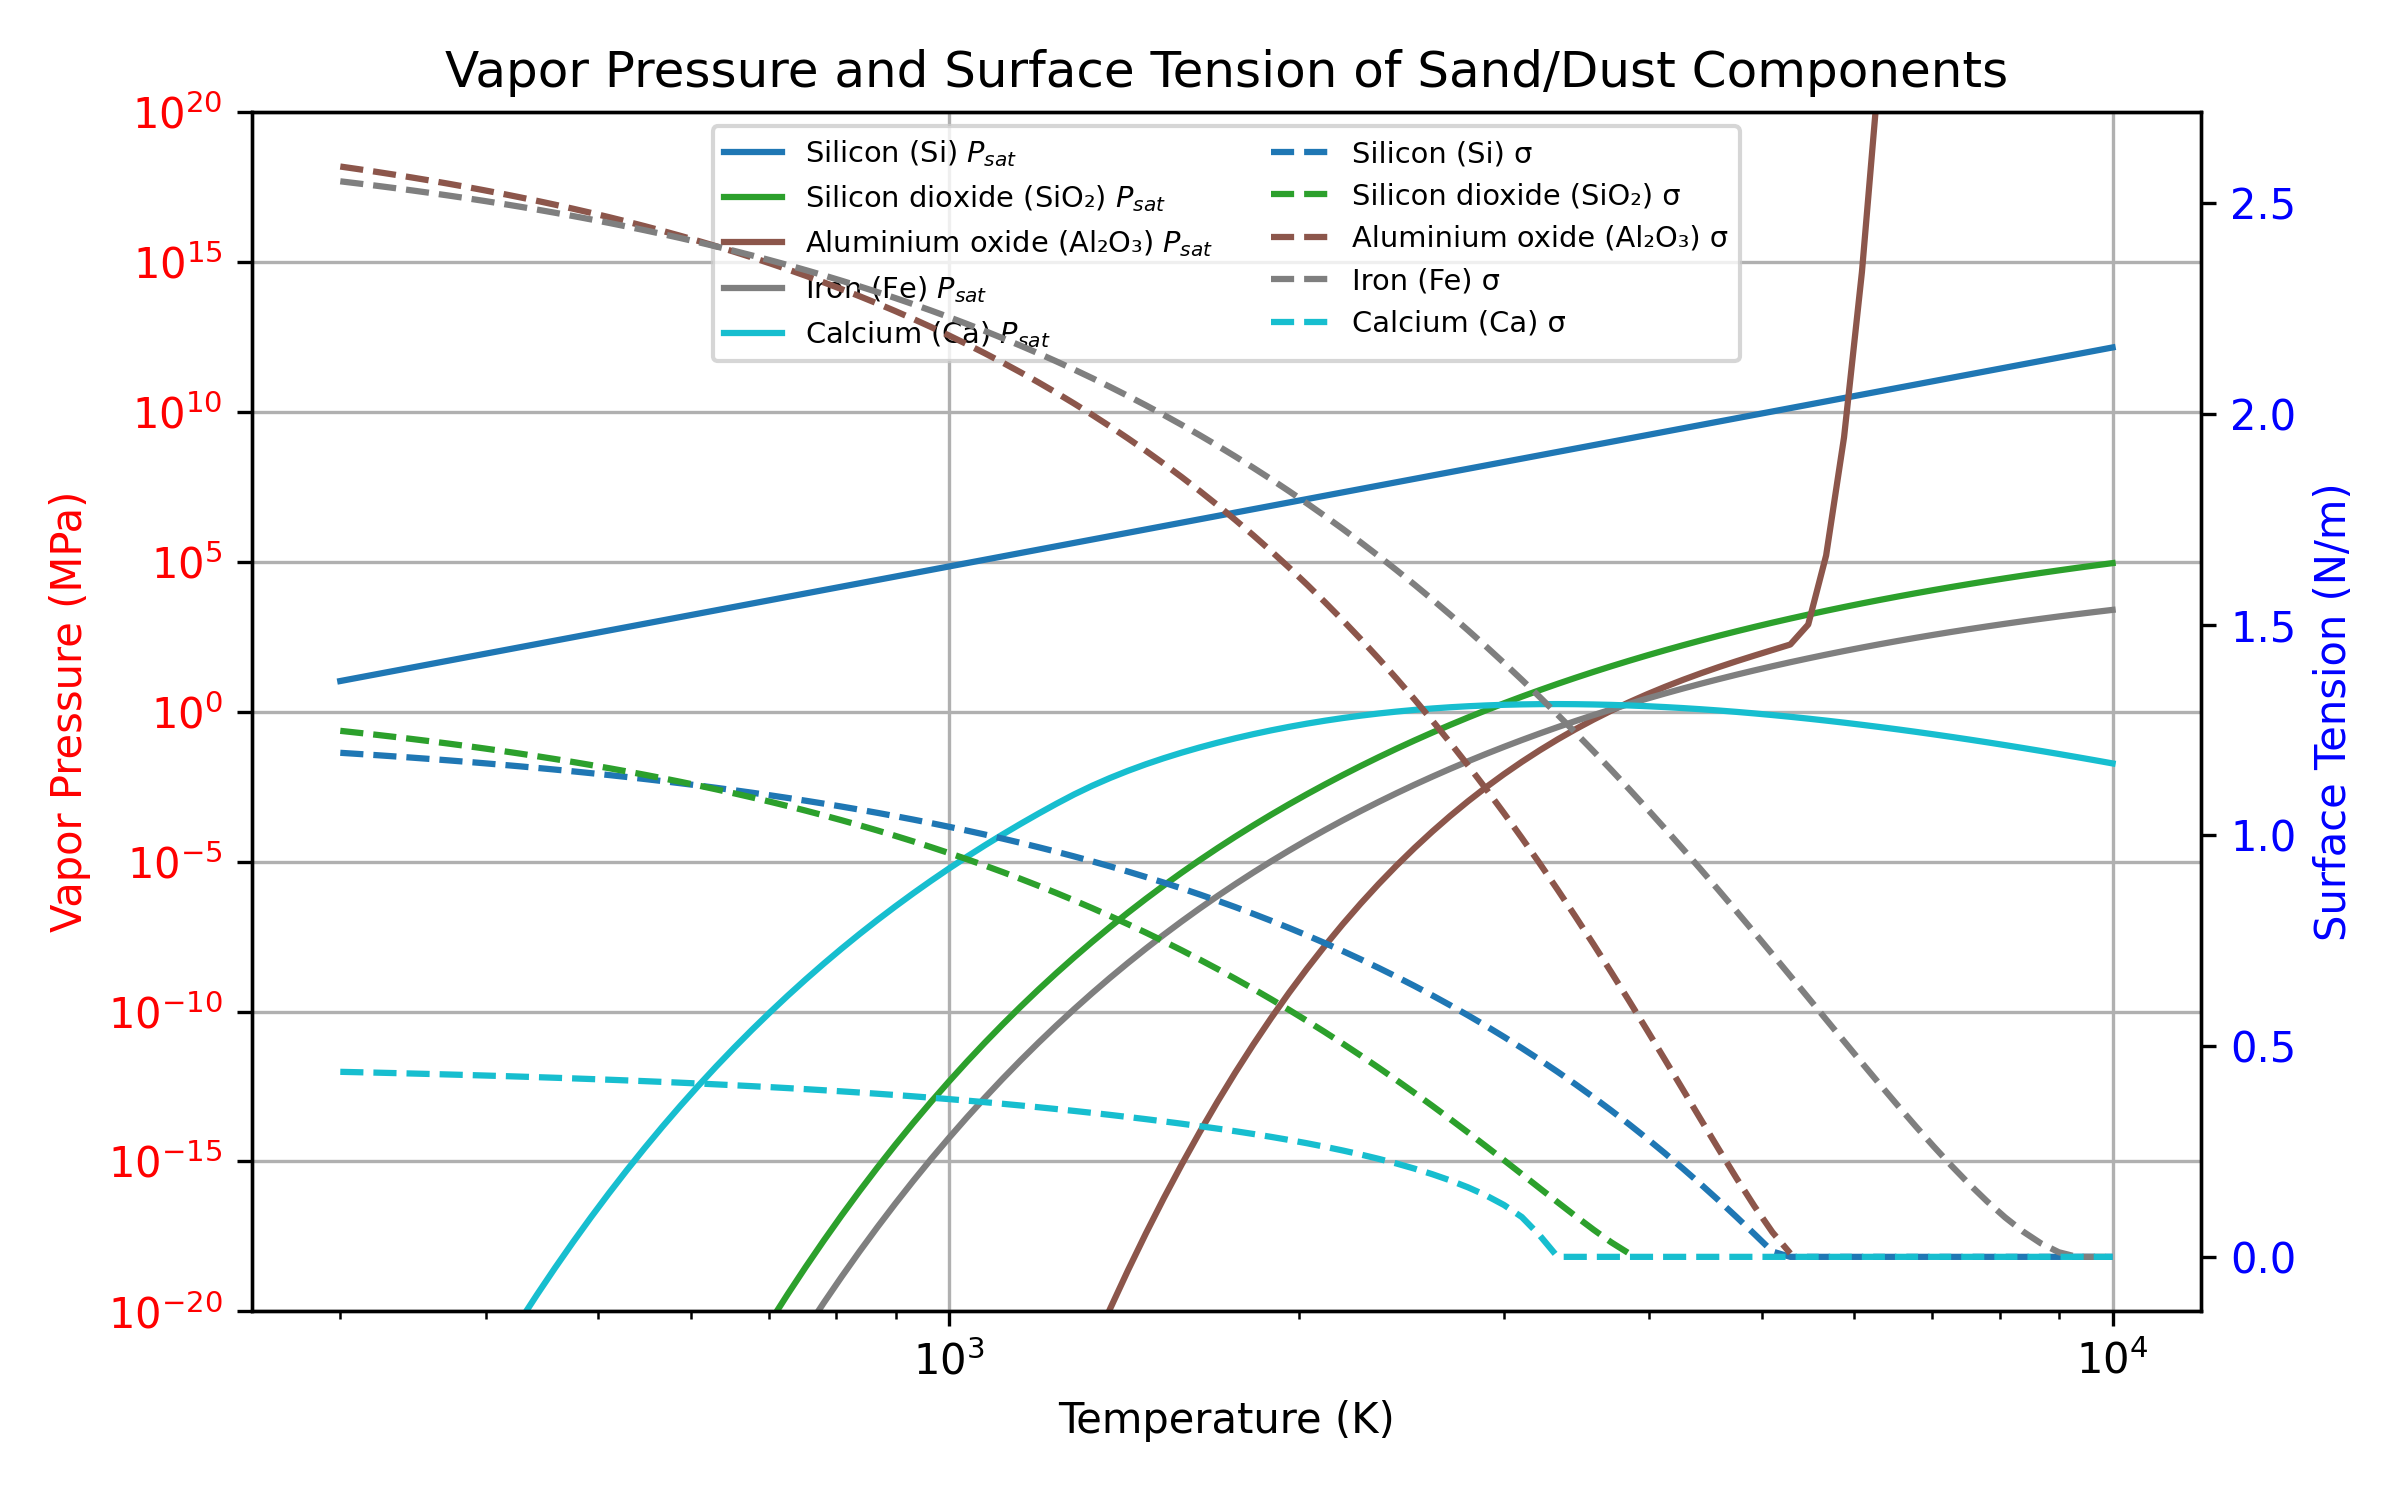
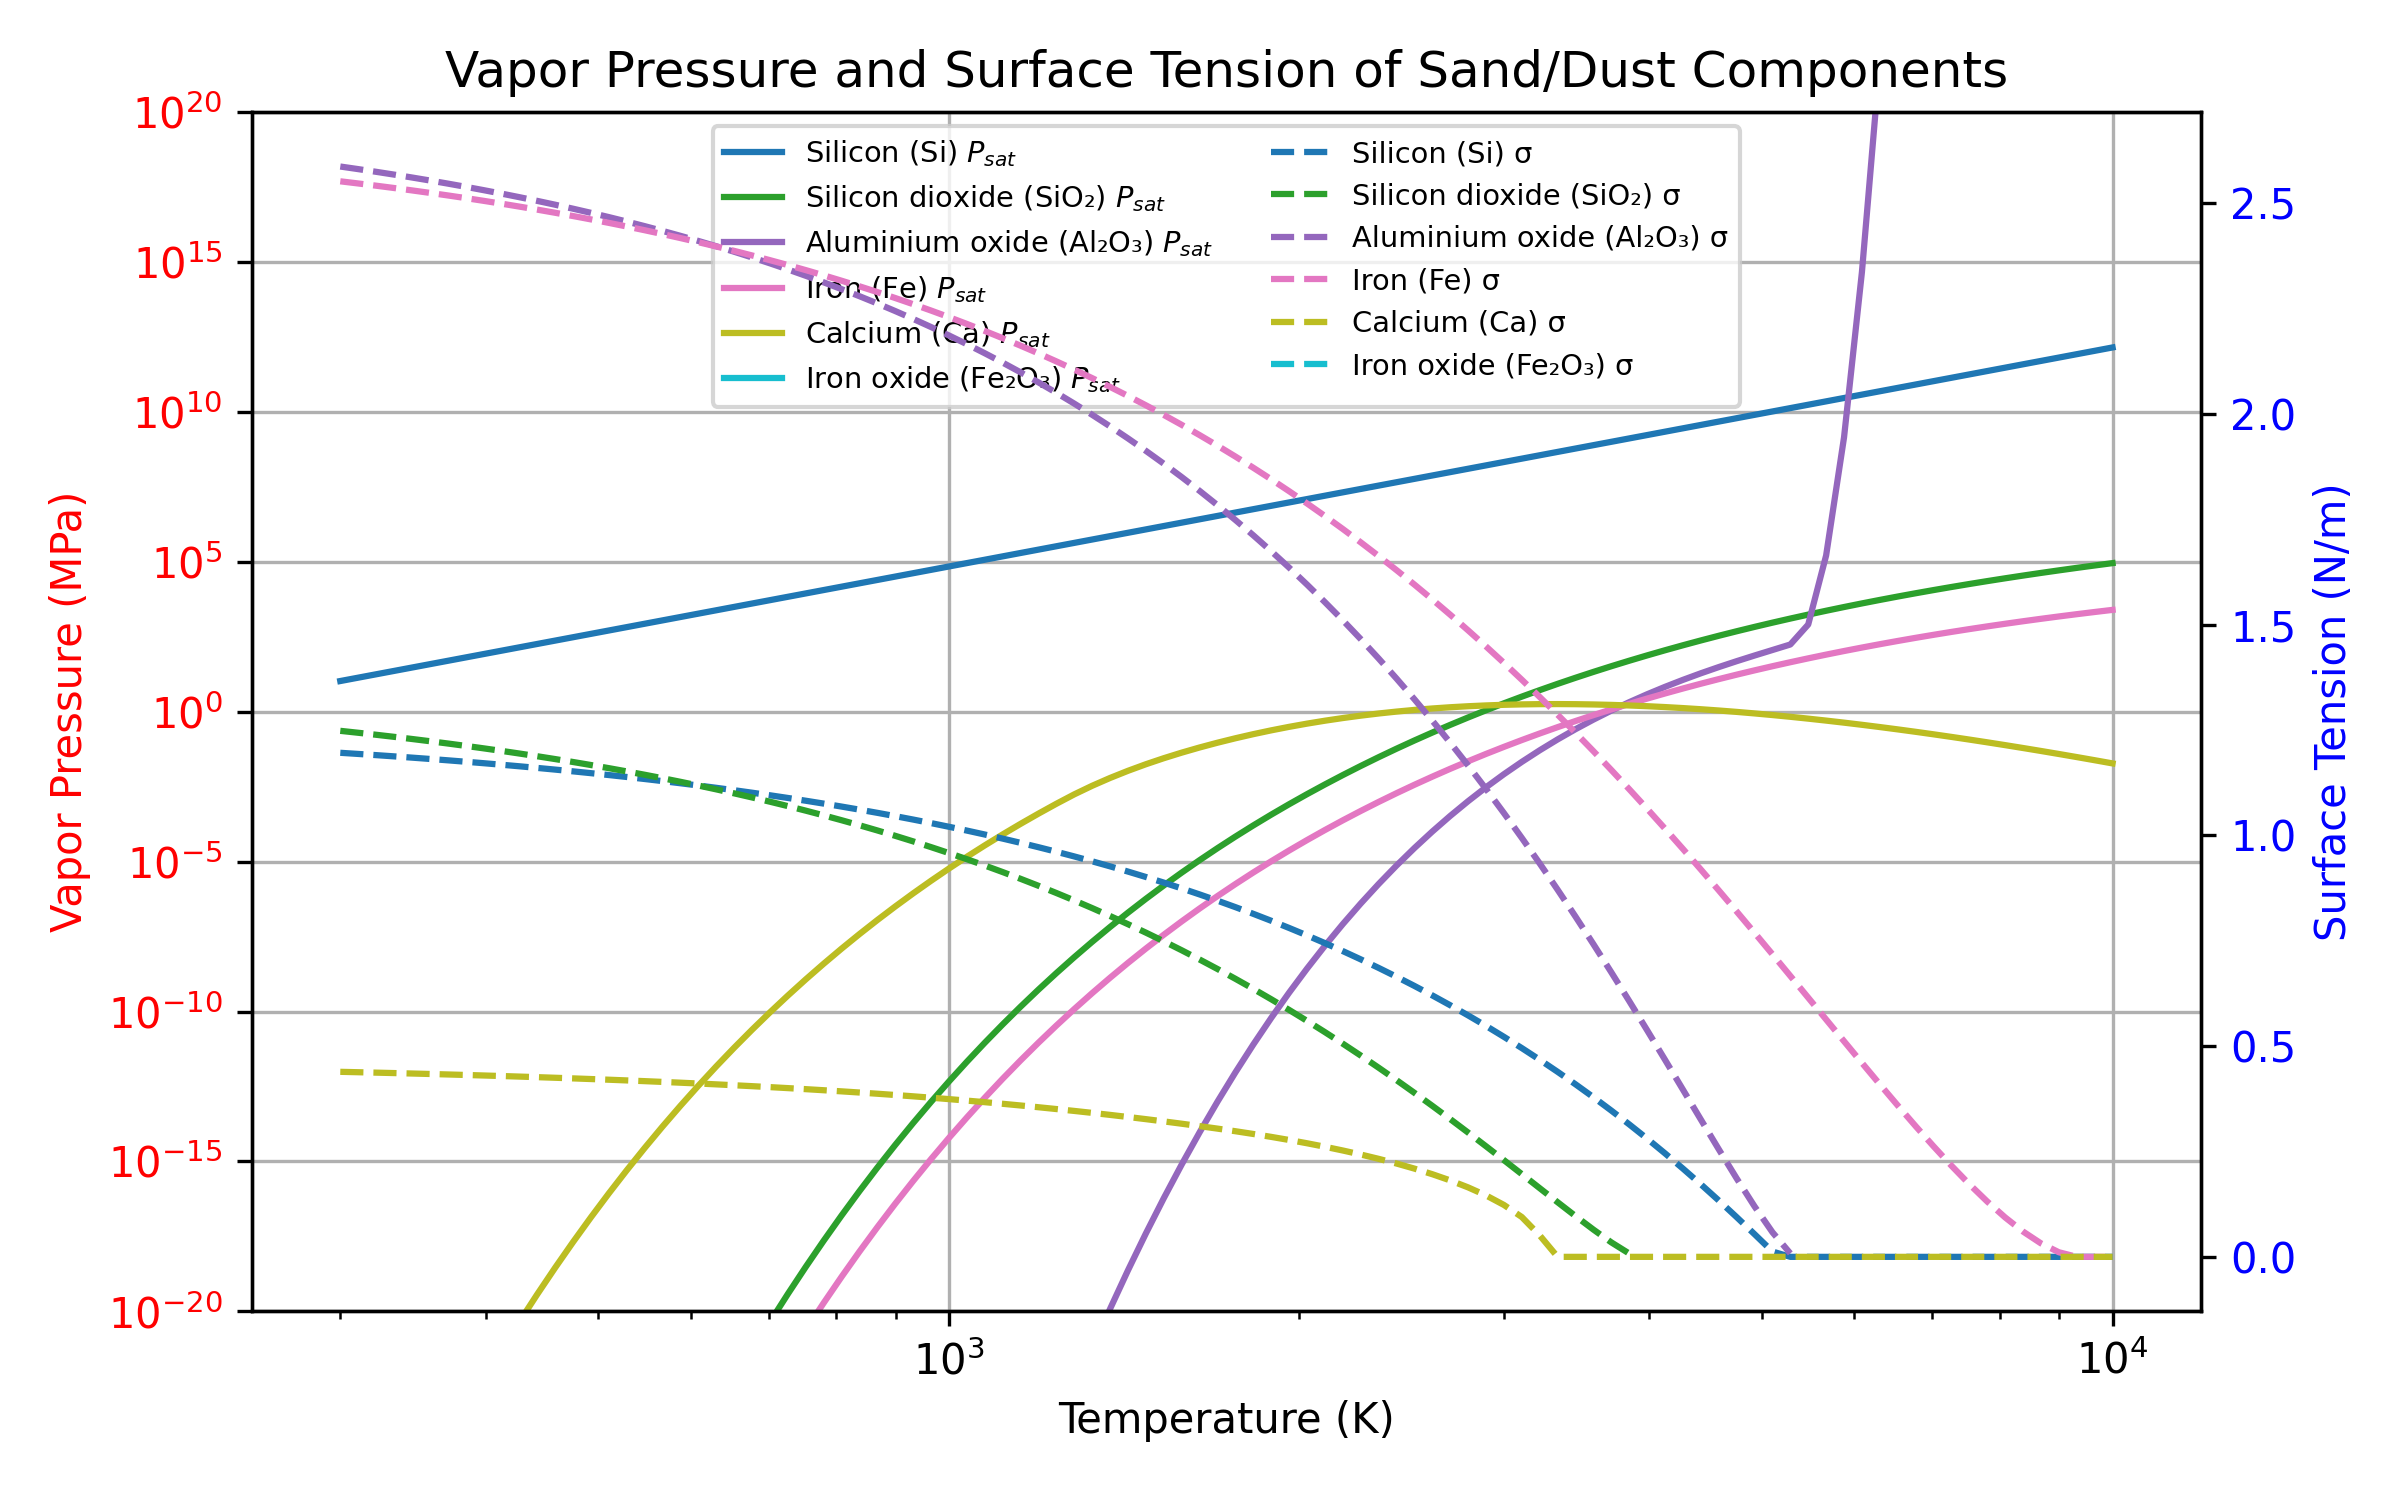
added chemical search valid eval

diff --git a/particula/util/materials/chemical_values.py b/particula/util/materials/chemical_values.py
@@ -5,6 +5,7 @@ import matplotlib.pyplot as plt
 import numpy as np
 from particula.util.materials.surface_tension import get_surface_tension
 from particula.util.materials.vapor_pressure import get_vapor_pressure
+from particula.util.materials.chemical_search import get_chemical_search
 
 
 # %% silica mineral
@@ -22,6 +23,7 @@ components = {
     "Aluminium oxide (Al₂O₃)": "Al2O3",
     "Iron (Fe)": "Fe",
     "Calcium (Ca)": "Ca",
+    "Iron oxide (Fe₂O₃)": "Fe2O3",
 }
 colors = plt.cm.tab10(np.linspace(0, 1, len(components)))
 

diff --git a/tests/materials/test_chemical_search.py b/tests/materials/test_chemical_search.py
@@ -12,7 +12,7 @@ def test_get_chemical_search_exact():
 
 
 def test_get_chemical_search_fuzzy():
-    if not THERMO_AVAILABLE:
-        pytest.skip("thermo is not installed")
+    # if not THERMO_AVAILABLE:
+    #     pytest.skip("thermo is not installed")
     suggestion = chemical_search.get_chemical_search("watr")
     assert suggestion is not None

diff --git a/particula/util/materials/chemical_search.py b/particula/util/materials/chemical_search.py
@@ -1,5 +1,4 @@
 """Utility functions for querying the thermo chemical database."""
-from __future__ import annotations
 
 from difflib import get_close_matches
 
